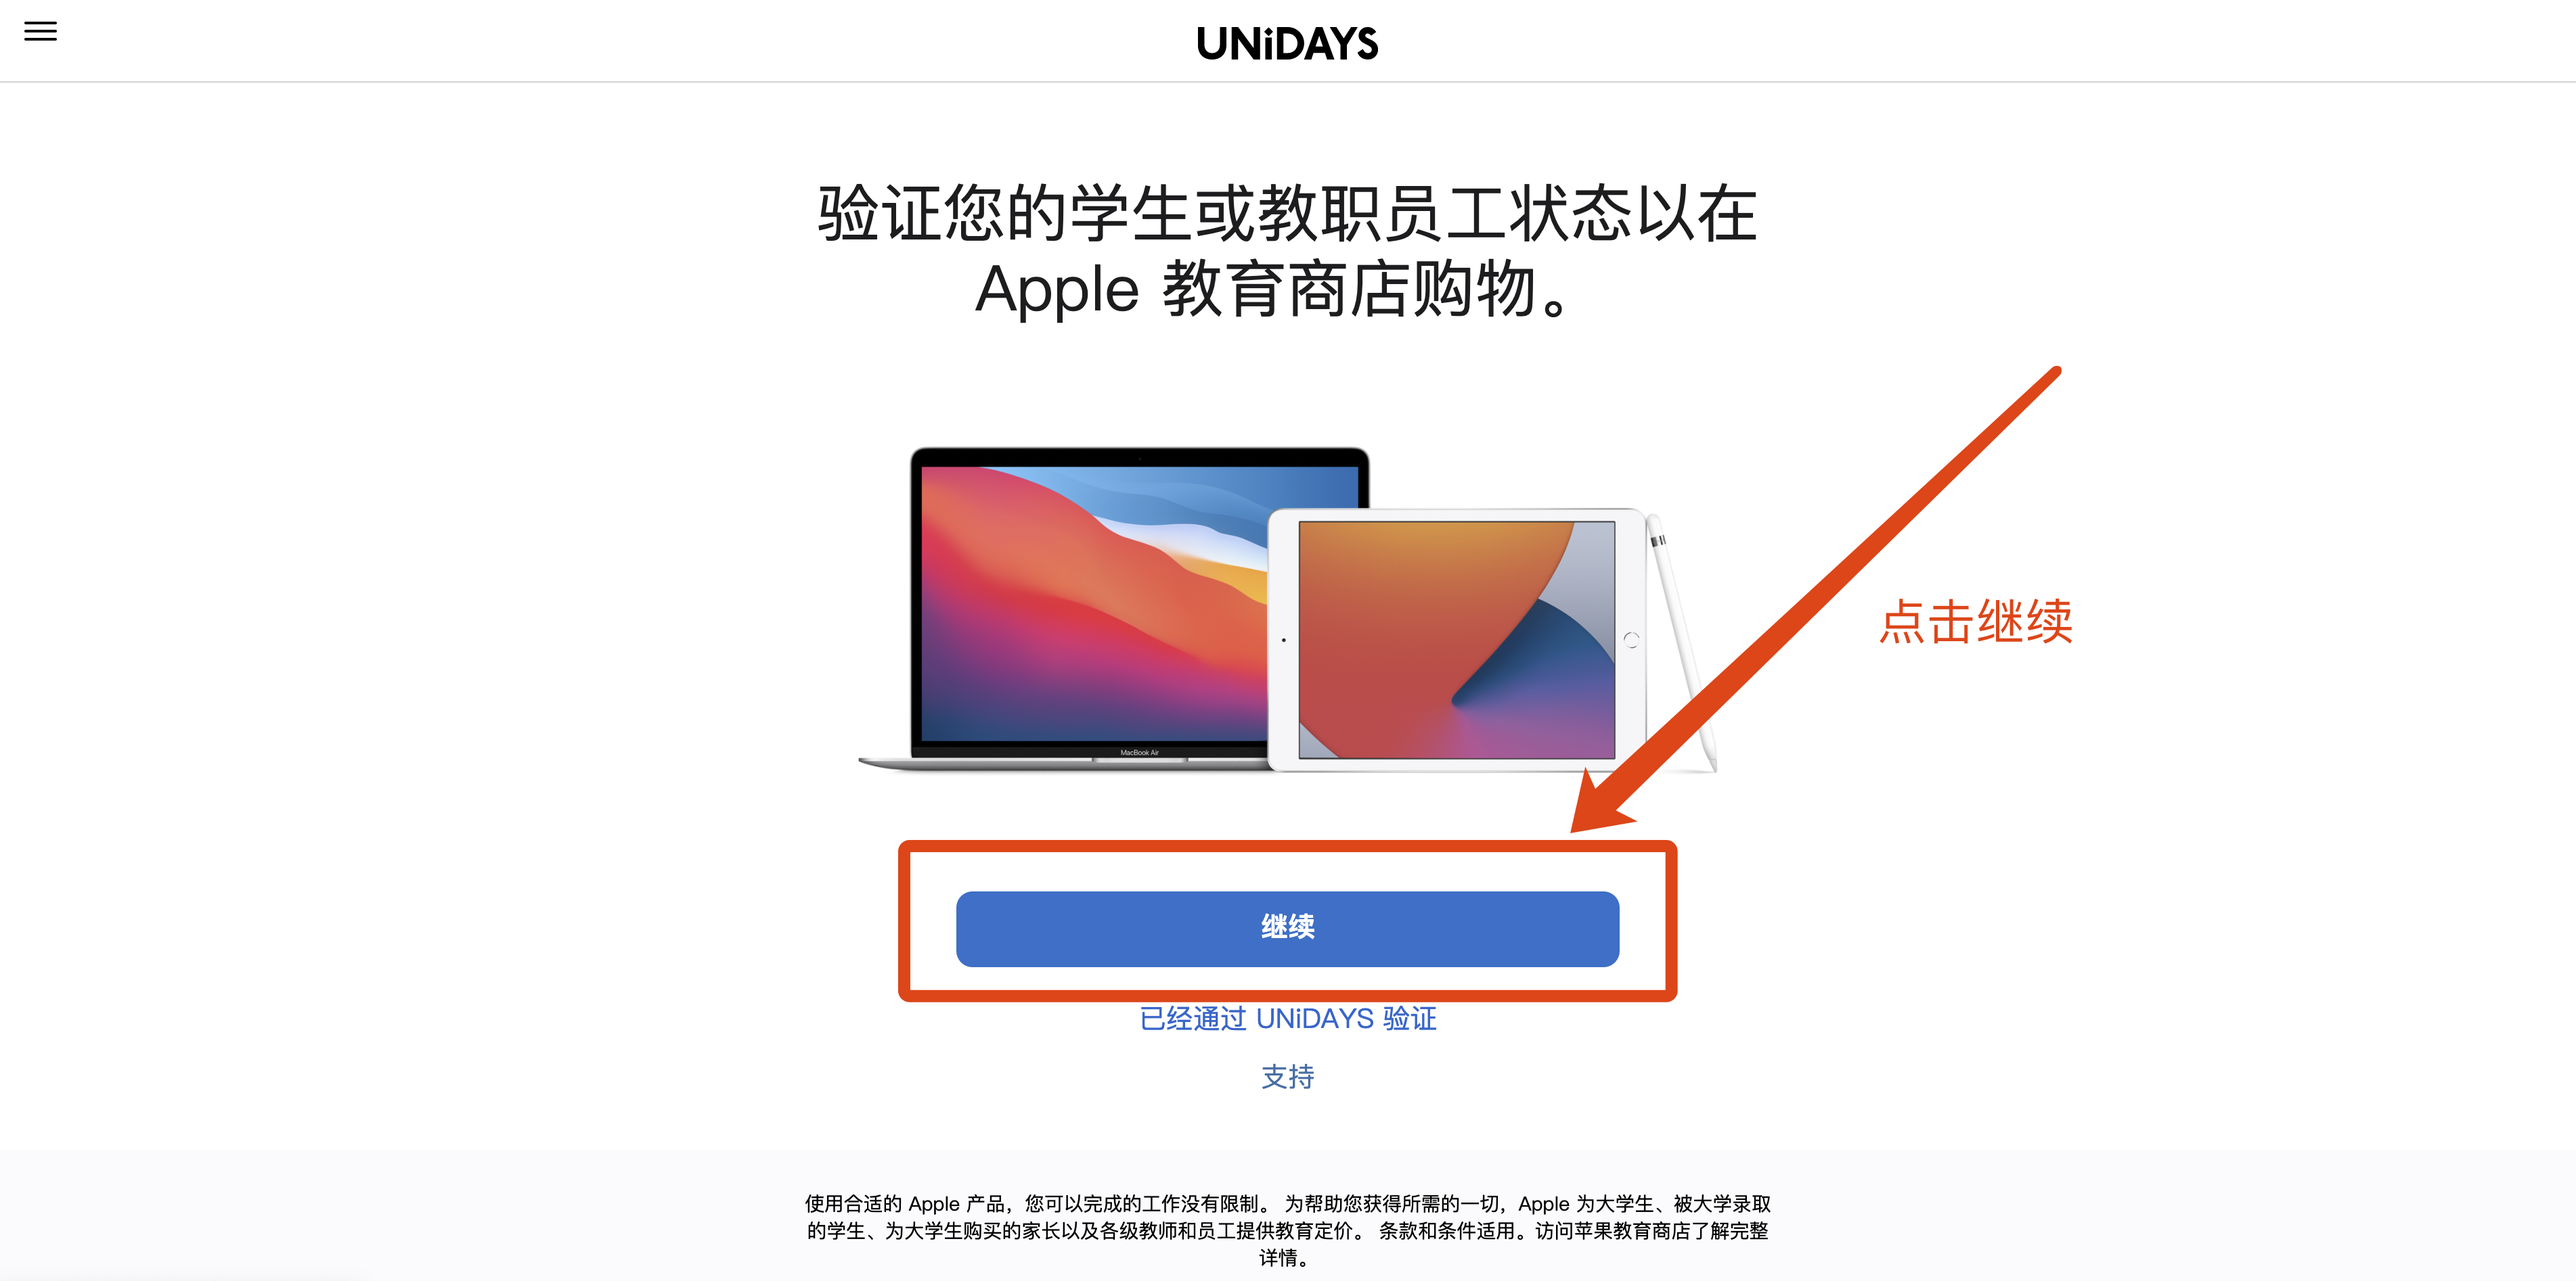
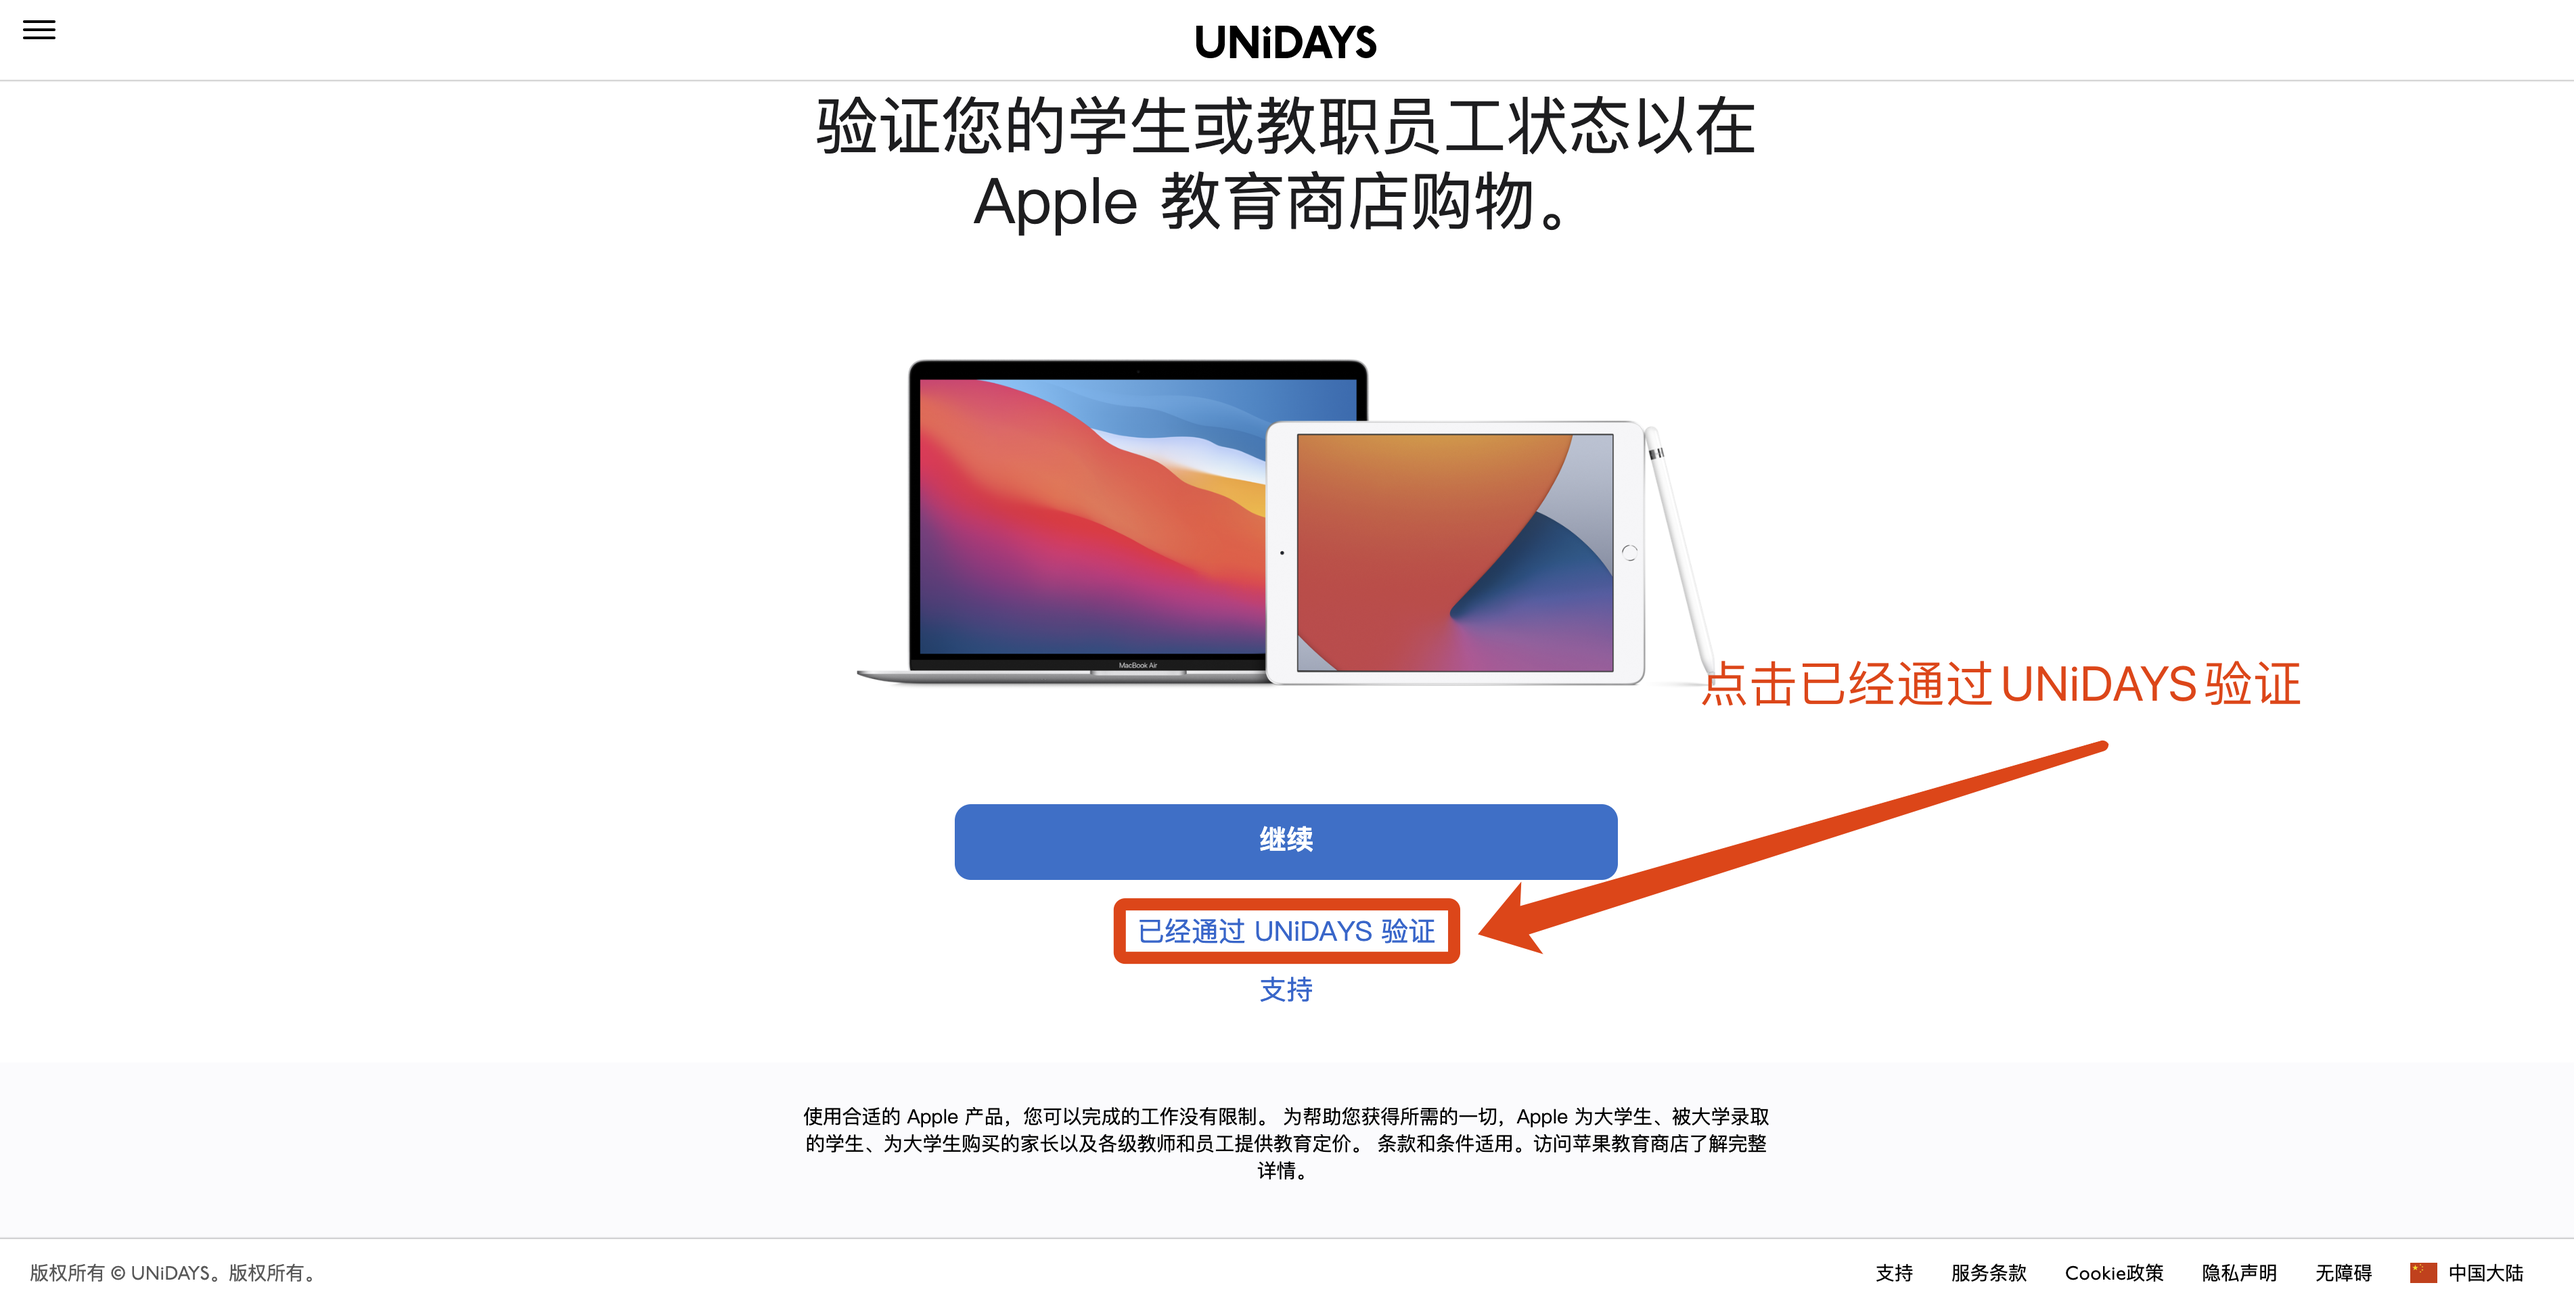
1

diff --git a/source/_posts/苹果教育优惠.md b/source/_posts/苹果教育优惠.md
@@ -57,30 +57,16 @@ https://www.apple.com.cn/cn-edu/shop
 
 {% image https://shop.weijiajin.com/images/文章图片/苹果教育优惠/apple-04.png %}
 
-3.点击继续
-
-{% image https://shop.weijiajin.com/images/文章图片/苹果教育优惠/apple-05.png %}
-
-4.点击同意所有人，点击同意并继续
-
-{% image https://shop.weijiajin.com/images/文章图片/苹果教育优惠/apple-06.png %}
-
-
-5.点击登录
-
-{% image https://shop.weijiajin.com/images/文章图片/苹果教育优惠/apple-07.png %}
-
-
-6.输入购买的账号密码，点击登录
+3.输入购买的账号密码，点击登录
 
 {% image https://shop.weijiajin.com/images/文章图片/苹果教育优惠/apple-08.png %}
 
 
-7.登录成功，点击进入商店
+4.登录成功，点击进入商店
 
 {% image https://shop.weijiajin.com/images/文章图片/苹果教育优惠/apple-09.png %}
 
-8.跳转回到苹果官网，可以正常购买苹果的优惠产品。可通过游客身份或者登录自己的Apple ID进行购买。
+5.跳转回到苹果官网，可以正常购买苹果的优惠产品。可通过游客身份或者登录自己的Apple ID进行购买。
 
 {% image https://shop.weijiajin.com/images/文章图片/苹果教育优惠/apple-10.png %}
 
